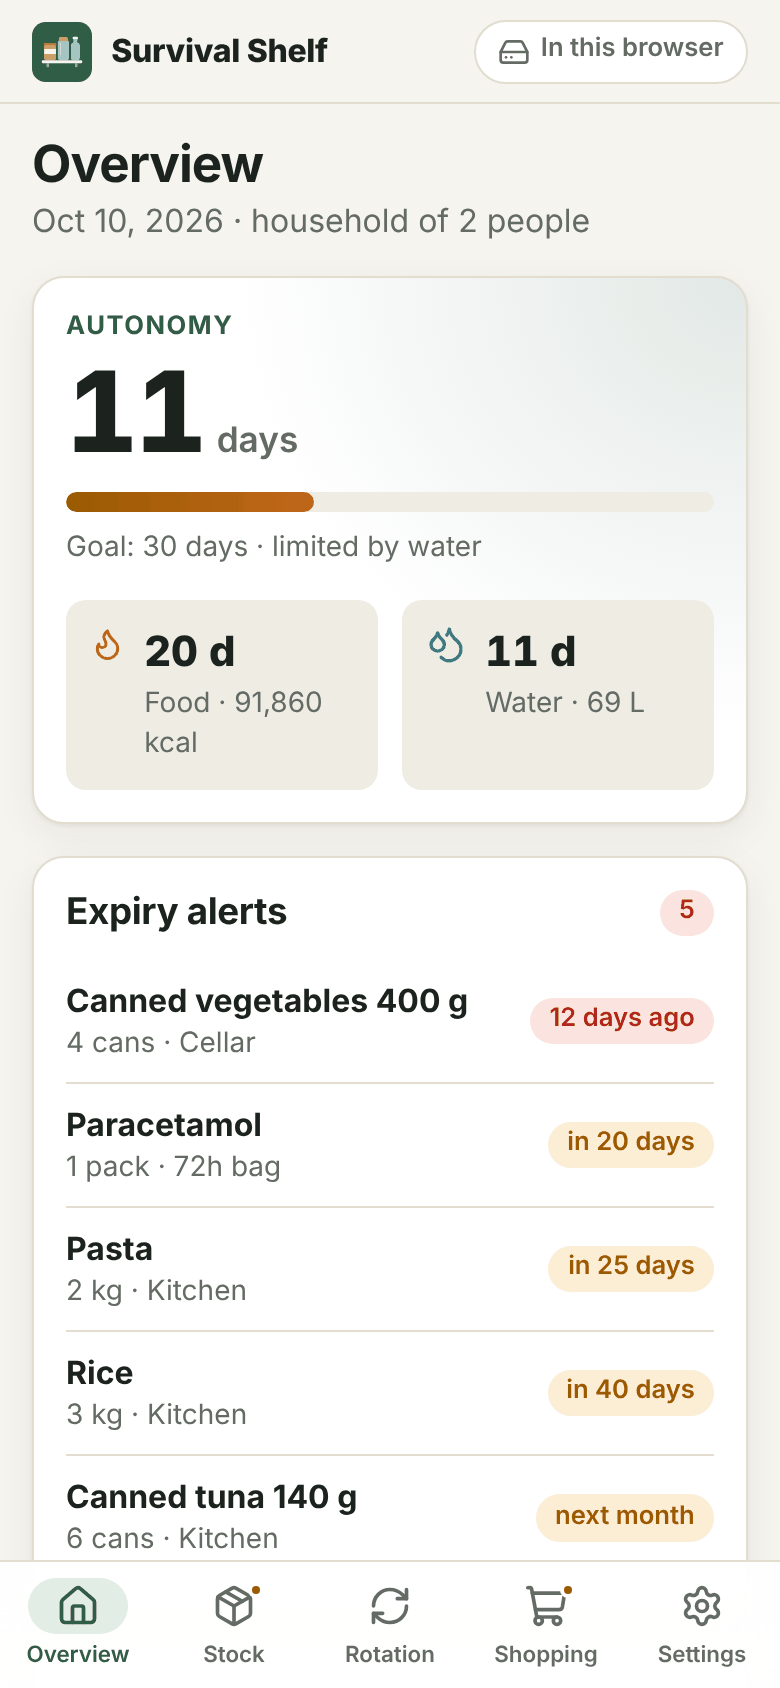
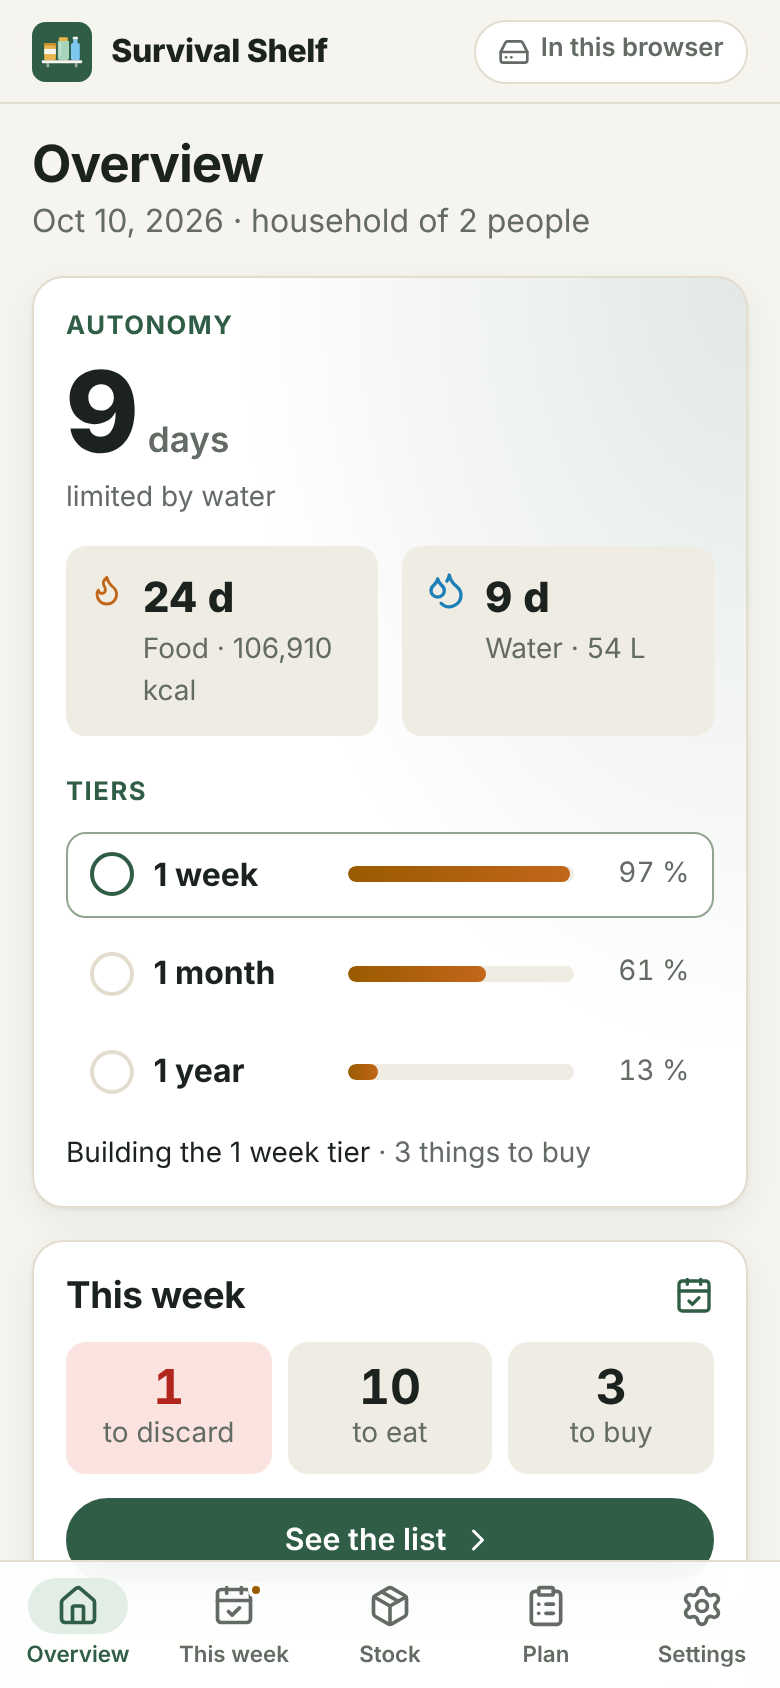
Document the plan and refresh the example and screenshots
Claude-Session: https://claude.ai/code/session_01LjHRYLX86v9dg2jaa5X1oQ

Changed region(s): [[0.0308, 0.2156, 0.9538, 0.9858], [0.7692, 0.4929, 0.9231, 0.5545]]

diff --git a/index.html b/index.html
@@ -3,7 +3,7 @@
   <head>
     <meta charset="UTF-8" />
     <meta name="viewport" content="width=device-width, initial-scale=1, viewport-fit=cover" />
-    <meta name="description" content="Manage your survival stock offline: expiry dates, autonomy estimates and progressive rotation." />
+    <meta name="description" content="Build your survival stock tier by tier, offline: what to discard, eat and buy each week." />
     <meta name="theme-color" content="#2f5d46" media="(prefers-color-scheme: light)" />
     <meta name="theme-color" content="#101513" media="(prefers-color-scheme: dark)" />
     <meta name="mobile-web-app-capable" content="yes" />

diff --git a/vite.config.ts b/vite.config.ts
@@ -31,7 +31,7 @@ export default defineConfig(({ mode }) => {
               id: './',
               name: 'Survival Shelf',
               short_name: 'Survival Shelf',
-              description: 'Manage your survival stock offline: expiry dates, autonomy estimates and progressive rotation.',
+              description: 'Build your survival stock tier by tier, offline: what to discard, eat and buy each week.',
               lang: 'en',
               start_url: './',
               scope: './',

diff --git a/examples/survival-shelf.md b/examples/survival-shelf.md
@@ -7,36 +7,57 @@
 
 ## Settings
 
-| Setting                    | Value |
-|----------------------------|-------|
-| People                     | 2     |
-| Kcal per person per day    | 2200  |
-| Water L per person per day | 3     |
-| Target autonomy days       | 30    |
-| Expiry warning days        | 60    |
-| Rotation margin days       | 30    |
+| Setting                    | Value      |
+|----------------------------|------------|
+| People                     | 2          |
+| Kcal per person per day    | 2200       |
+| Water L per person per day | 3          |
+| Tiers (days)               | 7, 30, 365 |
+| Check-in                   | weekly     |
+| Expiry warning days        | 60         |
+| Rotation margin days       | 30         |
 
 ## Products
 
-<!-- One row per product. Kcal and Water are per unit. Target is the quantity you want to keep in stock. -->
+<!-- One row per product. Kcal and Water are per unit. Daily use sets what each tier needs, Target is a minimum to own. Per: person or household. -->
 
-| Product                 | Category    | Unit   | Kcal/unit | Water L/unit | Target |
-|-------------------------|-------------|--------|-----------|--------------|--------|
-| Water pack 6 × 1.5 L    | water       | pack   |           | 9            | 10     |
-| Water bottle 1.5 L      | water       | bottle |           | 1.5          | 4      |
-| Rice                    | grains      | kg     | 3600      |              | 10     |
-| Pasta                   | grains      | kg     | 3550      |              | 8      |
-| Dried lentils           | legumes     | kg     | 3500      |              | 4      |
-| Canned tuna 140 g       | canned      | can    | 150       |              | 24     |
-| Canned vegetables 400 g | canned      | can    | 120       |              | 20     |
-| Freeze-dried meal       | ready-meals | pouch  | 500       |              | 12     |
-| Vegetable oil           | fats        | L      | 8200      |              | 3      |
-| Sugar                   | sweets      | kg     | 4000      |              | 2      |
-| Chocolate 100 g         | sweets      | bar    | 550       |              | 10     |
-| AA batteries            | energy      | unit   |           |              | 24     |
-| First aid kit           | medical     | unit   |           |              | 2      |
-| Paracetamol             | medical     | pack   |           |              | 2      |
-| Candles                 | energy      | unit   |           |              | 20     |
+| Product                 | Category        | Unit      | Kcal/unit | Water L/unit | Daily use | Per       | Target |
+|-------------------------|-----------------|-----------|-----------|--------------|-----------|-----------|--------|
+| Water bottle 1.5 L      | water           | bottle    |           | 1.5          |           |           |        |
+| Water filter (1500 L)   | water-treatment | unit      |           | 1500         |           |           |        |
+| Rice                    | grains          | kg        | 3600      |              | 0.1       | person    |        |
+| Pasta                   | grains          | kg        | 3550      |              | 0.09      | person    |        |
+| Oats                    | grains          | kg        | 3800      |              | 0.055     | person    |        |
+| Dried lentils           | legumes         | kg        | 3500      |              | 0.04      | person    |        |
+| Canned tuna 140 g       | canned          | can       | 150       |              | 0.25      | person    |        |
+| Canned vegetables 400 g | canned          | can       | 120       |              | 0.5       | person    |        |
+| Canned fruit 400 g      | canned          | can       | 250       |              | 0.15      | person    |        |
+| Canned ready meal 800 g | ready-meals     | can       | 700       |              | 0.15      | person    |        |
+| Milk powder             | dairy           | kg        | 4900      |              | 0.025     | person    |        |
+| Vegetable oil           | fats            | L         | 8200      |              | 0.03      | person    |        |
+| Peanut butter 350 g     | fats            | jar       | 2100      |              | 0.04      | person    |        |
+| Sugar                   | sweets          | kg        | 4000      |              | 0.03      | person    |        |
+| Jam 370 g               | sweets          | jar       | 900       |              | 0.05      | person    |        |
+| Chocolate 100 g         | sweets          | bar       | 550       |              | 0.1       | person    |        |
+| Biscuits 200 g          | sweets          | pack      | 950       |              | 0.15      | person    |        |
+| Nuts                    | sweets          | kg        | 6000      |              | 0.02      | person    |        |
+| Salt                    | condiments      | kg        |           |              | 0.005     | person    |        |
+| Toilet paper            | hygiene         | roll      |           |              | 0.2       | person    |        |
+| Soap                    | hygiene         | bar       |           |              | 0.03      | person    |        |
+| Toothpaste 75 ml        | hygiene         | tube      |           |              | 0.015     | person    |        |
+| Bin bags (roll of 20)   | hygiene         | roll      |           |              | 0.05      | household |        |
+| First aid kit           | medical         | unit      |           |              |           | household | 1      |
+| Paracetamol 500 mg      | medical         | box       |           |              |           | household | 2      |
+| AA batteries            | energy          | unit      |           |              |           | household | 12     |
+| Candles                 | energy          | unit      |           |              | 0.2       | household |        |
+| Gas cartridge           | energy          | cartridge |           |              | 0.2       | person    |        |
+| Matches                 | energy          | box       |           |              |           | household | 3      |
+| Headlamp                | tools           | unit      |           |              |           | person    | 1      |
+| Hand-crank radio        | tools           | unit      |           |              |           | household | 1      |
+| Camping stove           | tools           | unit      |           |              |           | household | 1      |
+| Manual can opener       | tools           | unit      |           |              |           | household | 1      |
+| Multi-tool knife        | tools           | unit      |           |              |           | household | 1      |
+| Survival blanket        | tools           | unit      |           |              |           | person    | 1      |
 
 ## Stock
 
@@ -44,27 +65,44 @@
 
 | Product                 | Qty | Expires    | Location | Added      |
 |-------------------------|-----|------------|----------|------------|
-| Water pack 6 × 1.5 L    | 4   | 2027-04-28 | Garage   | 2026-09-10 |
-| Water pack 6 × 1.5 L    | 3   | 2028-02-02 | Garage   | 2026-09-10 |
-| Water bottle 1.5 L      | 4   | 2027-08-06 | 72h bag  | 2026-09-10 |
-| Rice                    | 2.5 | 2026-11-19 | Kitchen  | 2026-09-10 |
+| Water bottle 1.5 L      | 24  | 2027-08-06 | Garage   | 2026-09-10 |
+| Water bottle 1.5 L      | 12  | 2028-02-22 | Garage   | 2026-09-10 |
+| Rice                    | 2   | 2026-11-19 | Kitchen  | 2026-09-10 |
 | Rice                    | 5   | 2028-09-09 | Cellar   | 2026-09-10 |
 | Pasta                   | 2   | 2026-11-04 | Kitchen  | 2026-09-10 |
 | Pasta                   | 4   | 2027-08-26 | Cellar   | 2026-09-10 |
+| Oats                    | 1   | 2027-03-09 | Kitchen  | 2026-09-10 |
 | Dried lentils           | 2   | 2028-04-02 | Cellar   | 2026-09-10 |
 | Canned tuna 140 g       | 4   | 2026-11-24 | Kitchen  | 2026-09-10 |
 | Canned tuna 140 g       | 12  | 2029-03-28 | Cellar   | 2026-09-10 |
 | Canned vegetables 400 g | 4   | 2026-09-28 | Cellar   | 2026-09-10 |
 | Canned vegetables 400 g | 8   | 2027-11-14 | Cellar   | 2026-09-10 |
-| Freeze-dried meal       | 6   | 2033-05-06 | Cellar   | 2026-09-10 |
-| Freeze-dried meal       | 3   | 2033-05-06 | 72h bag  | 2026-09-10 |
-| Vegetable oil           | 2   | 2027-03    | Kitchen  | 2026-09-10 |
+| Canned fruit 400 g      | 3   | 2027-04-28 | Cellar   | 2026-09-10 |
+| Canned ready meal 800 g | 4   | 2028-06-01 | Cellar   | 2026-09-10 |
+| Milk powder             | 0.5 | 2027-06-17 | Kitchen  | 2026-09-10 |
+| Vegetable oil           | 2   | 2027-03-09 | Kitchen  | 2026-09-10 |
+| Peanut butter 350 g     | 1   | 2027-02-07 | Kitchen  | 2026-09-10 |
 | Sugar                   | 2   |            | Cellar   | 2026-09-10 |
+| Jam 370 g               | 2   | 2027-11-14 | Cellar   | 2026-09-10 |
 | Chocolate 100 g         | 4   | 2026-12-29 | Kitchen  | 2026-09-10 |
-| AA batteries            | 16  | 2034-09-18 | Garage   | 2026-09-10 |
+| Biscuits 200 g          | 3   | 2027-01-18 | Kitchen  | 2026-09-10 |
+| Nuts                    | 0.5 | 2027-03-19 | Kitchen  | 2026-09-10 |
+| Salt                    | 1   |            | Kitchen  | 2026-09-10 |
+| Toilet paper            | 12  |            | Garage   | 2026-09-10 |
+| Soap                    | 2   | 2029-07-06 | Garage   | 2026-09-10 |
+| Toothpaste 75 ml        | 2   | 2028-02-22 | Garage   | 2026-09-10 |
+| Bin bags (roll of 20)   | 1   |            | Garage   | 2026-09-10 |
 | First aid kit           | 1   |            | 72h bag  | 2026-09-10 |
-| Paracetamol             | 1   | 2026-10-30 | 72h bag  | 2026-09-10 |
-| Candles                 | 20  |            | Garage   | 2026-09-10 |
+| Paracetamol 500 mg      | 1   | 2026-10-30 | 72h bag  | 2026-09-10 |
+| AA batteries            | 16  | 2034-09-18 | Garage   | 2026-09-10 |
+| Candles                 | 18  |            | Garage   | 2026-09-10 |
+| Gas cartridge           | 4   |            | Garage   | 2026-09-10 |
+| Matches                 | 3   |            | Garage   | 2026-09-10 |
+| Headlamp                | 1   |            | 72h bag  | 2026-09-10 |
+| Hand-crank radio        | 1   |            | Garage   | 2026-09-10 |
+| Camping stove           | 1   |            | Garage   | 2026-09-10 |
+| Manual can opener       | 1   |            | Kitchen  | 2026-09-10 |
+| Survival blanket        | 2   |            | 72h bag  | 2026-09-10 |
 
 ## Log
 
@@ -72,5 +110,6 @@
 
 | Date       | Product           | Qty | Action   |
 |------------|-------------------|-----|----------|
-| 2026-10-07 | Rice              | 0.5 | consumed |
-| 2026-10-09 | Canned tuna 140 g | 2   | consumed |
+| 2026-10-03 | Rice              | 1   | consumed |
+| 2026-10-07 | Canned tuna 140 g | 2   | consumed |
+| 2026-10-07 | Candles           | 2   | consumed |

diff --git a/docs/FILE_FORMAT.md b/docs/FILE_FORMAT.md
@@ -44,16 +44,18 @@ added by the app when it saves.
 
 A two-column table: `Setting | Value`.
 
-| Setting                      | Default | Meaning                                                              |
-|------------------------------|---------|----------------------------------------------------------------------|
-| `People`                     | 2       | Number of people living on the stock                                 |
-| `Kcal per person per day`    | 2200    | Daily energy need of one person                                      |
-| `Water L per person per day` | 3       | Liters of water per person per day (drinking, cooking, hygiene)      |
-| `Target autonomy days`       | 30      | Your autonomy goal, used by the overview and the shopping list       |
-| `Expiry warning days`        | 60      | Lots expiring within this delay are flagged as "expiring soon"       |
-| `Rotation margin days`       | 30      | The rotation plan aims to finish each lot this long before it expires |
+| Setting                      | Default      | Meaning                                                                 |
+|------------------------------|--------------|-------------------------------------------------------------------------|
+| `People`                     | 1            | Number of people living on the stock                                    |
+| `Kcal per person per day`    | 2200         | Daily energy need of one person                                         |
+| `Water L per person per day` | 3            | Liters of water per person per day (drinking, cooking, hygiene)         |
+| `Tiers (days)`               | `7, 30, 365` | Autonomy tiers to build, in days, separated by commas or spaces         |
+| `Check-in`                   | `weekly`     | How often the app lists what to discard, eat and buy: `weekly` or `monthly` |
+| `Expiry warning days`        | 60           | Lots expiring within this delay are flagged as "expiring soon"          |
+| `Rotation margin days`       | 30           | The rotation aims to finish each lot this long before it expires        |
 
-Unknown settings are kept as is. An invalid value is reported and the default is used.
+French names work too (`Personnes`, `Paliers`, `Rendez-vous`…), as do French values for the check-in
+(`hebdo`, `mensuel`). Unknown settings are kept as is. An invalid value is reported and the default is used.
 
 ## Products
 
@@ -64,13 +66,43 @@ Unknown settings are kept as is. An invalid value is reported and the default is
 | `Unit`         | Unité                                  |          | Free text: `kg`, `L`, `can`, `pack`…                         |
 | `Kcal/unit`    | Kcal, Calories, Energy                 |          | Energy of one unit, used for the food autonomy               |
 | `Water L/unit` | Water, Eau                             |          | Liters of drinkable water in one unit, used for water autonomy |
-| `Target`       | Objectif, Goal, Min                    |          | Quantity (in units) you want to keep in stock                |
+| `Daily use`    | Daily, Per day, Conso/jour, Conso      |          | Units used per day: sets what each tier needs                |
+| `Per`          | Par, Pour, Basis                       |          | `person` (default) or `household`: see below                 |
+| `Target`       | Minimum, Min, Objectif, Avoir          |          | Minimum to own whatever the tier (gear, first aid…)          |
 | `Notes`        | Note, Remarques, Commentaire           |          | Anything you want                                            |
 
-Categories: `water`, `grains`, `legumes`, `canned`, `ready-meals`, `dairy`, `fats`, `sweets`, `drinks`,
-`condiments`, `baby`, `pets`, `hygiene`, `medical`, `energy`, `tools`, `other`. Their English or French
-labels are accepted too (`Eau`, `Conserves`…). Food and water categories, and any product with calories or
-water, are part of the rotation plan.
+Categories: `water`, `water-treatment`, `grains`, `legumes`, `canned`, `ready-meals`, `dairy`, `fats`,
+`sweets`, `drinks`, `condiments`, `baby`, `pets`, `hygiene`, `medical`, `energy`, `tools`, `other`. Their
+English or French labels are accepted too (`Eau`, `Conserves`…). Food and water categories, and any product
+with calories or water, are part of the rotation.
+
+### The plan: daily use, per and target
+
+A product with a `Daily use` or a `Target` is **part of the plan**; the others are just tracked in the stock.
+For each tier (see `Tiers (days)` in the settings), the app works out what a product needs:
+
+```
+needed = max(Daily use × days, Target) × people     when Per is "person"
+needed = max(Daily use × days, Target)              when Per is "household"
+```
+
+rounded up to whole units for counted things (cans, rolls…), to 10 g or 10 mL for `kg`, `L` and other
+weights or volumes. For example, rice with `Daily use` 0.1 kg per person, for 2 people, needs 1.4 kg for
+the 1-week tier, 6 kg for the 1-month tier and 73 kg for the 1-year tier. A headlamp with `Target` 1 per
+person needs 2 for every tier.
+
+`Per` accepts `person` (also `personne`, `each`) and `household` (also `foyer`, `fixed`, `total`). Use
+`household` for what does not depend on the number of people: a radio, a first aid kit, a baby's diapers.
+
+**Water** is planned from the `Water L per person per day` setting, not with its own daily use:
+
+- up to 30 days, the tier needs **stored water**: products with `Water L/unit` (bottles, cans…);
+- beyond 30 days, the rest can come from **water treatment**: products of the `water-treatment` category
+  (filters, purification tablets), whose `Water L/unit` is the volume they can make drinkable. They need a
+  water source, so they never count for the first month.
+
+The **menu** is the sum of `Daily use × Kcal/unit` of the food planned per person: the app warns you when it
+is well below `Kcal per person per day`.
 
 ## Stock
 
@@ -99,7 +131,7 @@ old rows.
 | `Action`  | Type                 | `consumed` or `discarded`                   |
 | `Note`    | Notes, Commentaire   | Optional reason                             |
 
-## Minimal example
+## Minimal examples
 
 This is enough for the app:
 
@@ -112,7 +144,25 @@ This is enough for the app:
 | Canned tuna | 12 | 2028-06-30 |
 ```
 
-The app will add the missing sections and columns the first time it saves the file.
+The app will add the missing sections and columns the first time it saves the file. To also plan what to
+buy, give your products a daily use:
+
+```markdown
+## Settings
+
+| Setting | Value |
+|---|---|
+| People | 2 |
+| Tiers (days) | 7, 30, 365 |
+
+## Products
+
+| Product | Unit | Kcal/unit | Daily use | Per | Target |
+|---|---|---|---|---|---|
+| Rice | kg | 3600 | 0.1 | person | |
+| Toilet paper | roll | | 0.2 | person | |
+| Radio | unit | | | household | 1 |
+```
 
 ## Tips
 

diff --git a/README.md b/README.md
@@ -1,33 +1,44 @@
 # Survival Shelf
 
-**Know how long your supplies last, and never let them expire.**
+**Build your survival stock step by step, and never let it expire.**
 
-Survival Shelf is a free, open-source app to manage a survival stock (food, water, first aid, batteries…):
-expiry dates, household autonomy estimates and a progressive rotation plan. It runs **100% offline** in any
-modern browser, installs as an app (PWA), needs **no account and no server**, and keeps your data in a
-**plain Markdown file** you can read and edit by hand.
+Survival Shelf is a free, open-source app to build and keep a survival stock (food, water, hygiene, first
+aid, energy, gear…). It helps you start from nothing, tier by tier (1 week, then 1 month, then 1 year),
+and once a week tells you what to discard, what to eat before it expires and what to buy next. It runs
+**100% offline** in any modern browser, installs as an app (PWA), needs **no account and no server**, and
+keeps your data in a **plain Markdown file** you can read and edit by hand.
 
 <p align="center">
-  <img src="docs/screenshots/overview-mobile.png" width="240" alt="Overview on a phone">
-  <img src="docs/screenshots/rotation-mobile.png" width="240" alt="Rotation plan on a phone">
-  <img src="docs/screenshots/stock-mobile-fr-dark.png" width="240" alt="Stock in French, dark theme">
+  <img src="docs/screenshots/overview-mobile.png" width="200" alt="Overview with autonomy and tiers">
+  <img src="docs/screenshots/checkin-mobile.png" width="200" alt="Weekly check-in: discard, eat, buy">
+  <img src="docs/screenshots/setup-mobile-fr.png" width="200" alt="Starter plan, in French">
+  <img src="docs/screenshots/plan-mobile-fr-dark.png" width="200" alt="Plan with per-tier targets, dark theme">
 </p>
 
 ## Features
 
+- **Starter plan**: answer two questions (how many people, any baby, pet or daily medicine) and get a
+  balanced plan of about 2200 kcal per person per day, plus water, hygiene, first aid, energy and gear.
+  Untick what does not suit you and adjust the amounts.
+- **Autonomy tiers**: 1 week, 1 month and 1 year by default (editable). Each product has a use per day or a
+  minimum to own, per person or for the household; the app works out what every tier needs and shows how far
+  along you are. Beyond a month of stored water, filters and purification tablets take over.
+- **Weekly or monthly check-in**: one list with the expired lots to discard, what to eat this week so nothing
+  expires (progressive rotation, oldest first), and what to buy for the tier being built. Tick things off in
+  one tap, share or copy the list.
+- **Calendar reminder**: without a server the app cannot notify you, so it gives you a recurring `.ics` event
+  for your calendar (iPhone, Google, Outlook…).
 - **Stock by product and lot**: quantity, expiry date (day or month precision), location. Color-coded expiry
-  badges, search, filters by status and location.
-- **Autonomy**: how many days your household can live on the stock, for food (calories) and water, limited by
-  the weakest. The estimate simulates eating oldest first and counts what would expire before its turn.
-- **Progressive rotation**: instead of eating everything right before it expires, the app gives a steady pace
-  per product ("≈ 2.6 cans per week") that finishes every lot before its date, and tells you if that pace is
-  more than your household can eat.
-- **Consume or discard in one tap**, oldest expiry first (FEFO), with undo. Everything is logged.
-- **Expiry alerts** for expired and soon-to-expire lots.
-- **Shopping list**: products below their target, plus what is missing to reach your autonomy goal.
+  badges, search, filters by status and location. Consume or discard oldest first (FEFO), with undo.
+- **Autonomy**: how many days your household can live on the stock, for food (calories) and water. The
+  estimate simulates eating oldest first and counts what would expire before its turn.
+- **Built-in catalog** of about 60 common items with approximate calories and shelf life.
 - **Printable inventory** with room to tally what you take, for when there is no power.
-- **Presets** for common items (rice, pasta, canned food, water…) with approximate calories.
 - English and French, light and dark themes, phone and desktop layouts.
+
+<p align="center">
+  <img src="docs/screenshots/overview-desktop.png" width="720" alt="Overview on a computer">
+</p>
 
 ## Your data
 
@@ -69,7 +80,8 @@ for the service worker, [Lucide](https://lucide.dev) icons. No CSS framework, no
 
 ```
 src/
-  lib/core/      Pure logic, no UI: Markdown parser/writer, stock operations, autonomy, rotation, shopping
+  lib/core/      Pure logic, no UI: Markdown parser/writer, stock operations, autonomy, rotation,
+                 tiers (plan.ts), check-in, calendar reminder (ics.ts), catalog
   lib/storage/   IndexedDB working copy and file access (File System Access API, import/export)
   lib/i18n/      English (reference) and French messages
   lib/ui/        Shared components and dialogs
@@ -85,9 +97,8 @@ The business logic in `src/lib/core` is covered by unit tests; please add tests 
 
 - Autonomy over time chart ("how long will I last in 6 months if I do nothing?").
 - Several kits (cellar, car, 72-hour bag) with a go-bag checklist.
-- Calendar export (`.ics`) of expiry dates.
 - Grace period for "best before" items, still edible after the date.
-- Nutrition beyond calories (proteins…), specific needs (babies, pets, vital medicine).
+- Nutrition beyond calories (proteins…), and a finer balance between food groups.
 - Barcode scanning without any online database.
 
 ## License
